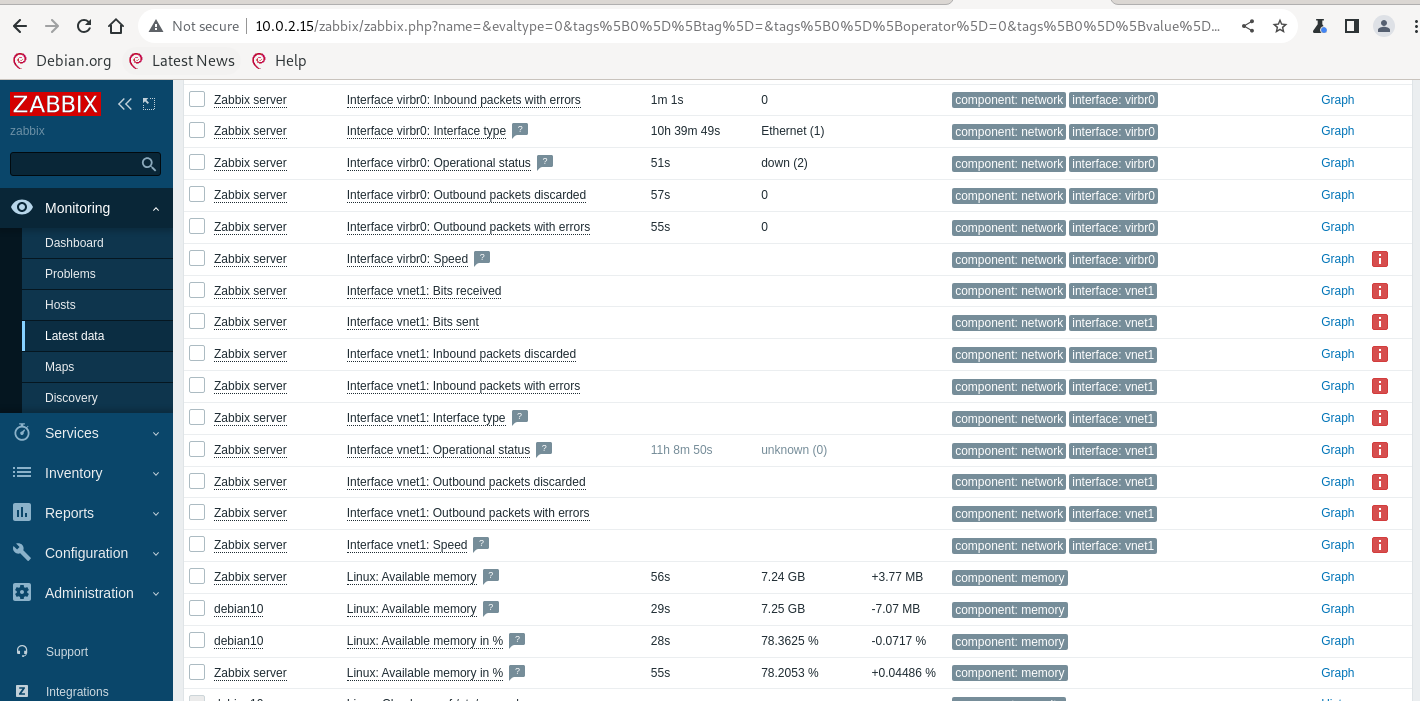
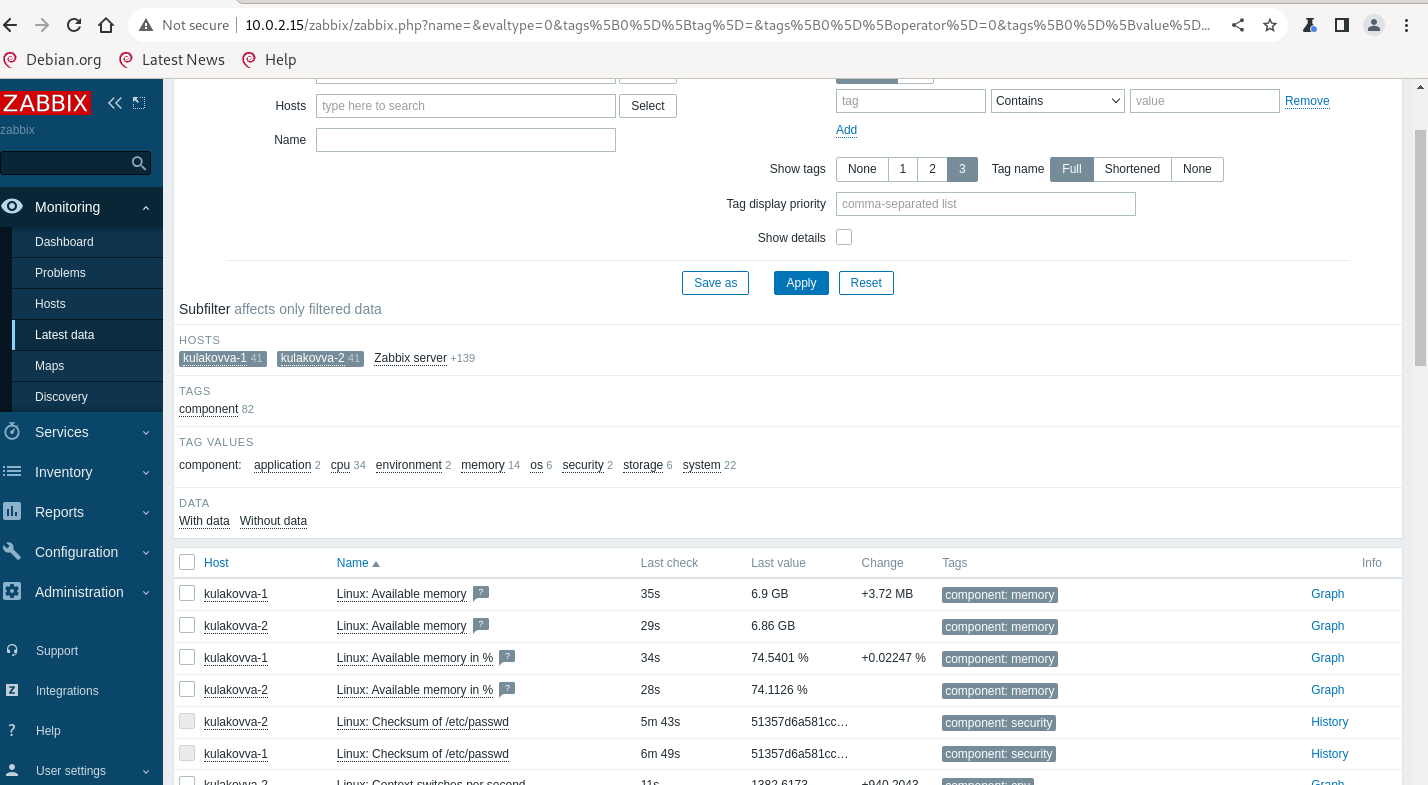
Добавлены изменения

diff --git a/README.md b/README.md
@@ -57,6 +57,27 @@ cd 8-03-hw
 git add
 git commit -m "Выполнено домашнее задание 8-03"
 git push origin main
+sudo docker run --name zabbix-agent-1 -d \
+  --net=host \
+  --privileged \
+  --pid=host \
+  -v /:/host:ro \
+  -e ZBX_SERVER_HOST="10.0.2.15,127.0.0.1,10.0.2.2" \
+  -e ZBX_ENABLEROOTSTATUS=1 \
+  -e ZBX_HOSTNAME="kulakovva-1" \
+  --restart unless-stopped \
+  zabbix/zabbix-agent2:alpine-latest
+sudo docker run --name zabbix-agent-2 -d \
+  --privileged \
+  --pid=host \
+  -v /:/host:ro \
+  -p 10052:10050 \
+  -e ZBX_SERVER_HOST="10.0.2.15,127.0.0.1,10.0.2.2" \
+  -e ZBX_ENABLEROOTSTATUS=1 \
+  -e ZBX_HOSTNAME="kulakovva-2" \
+  --restart unless-stopped \
+  zabbix/zabbix-agent2:alpine-latest
+
 ....
 ....
 ....
